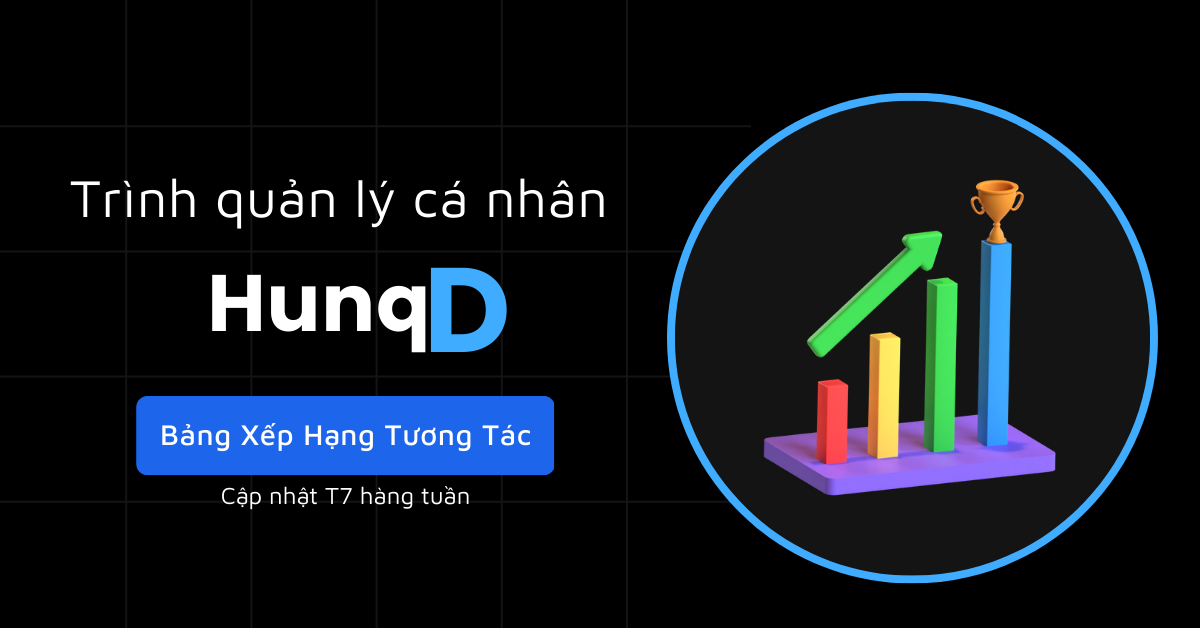
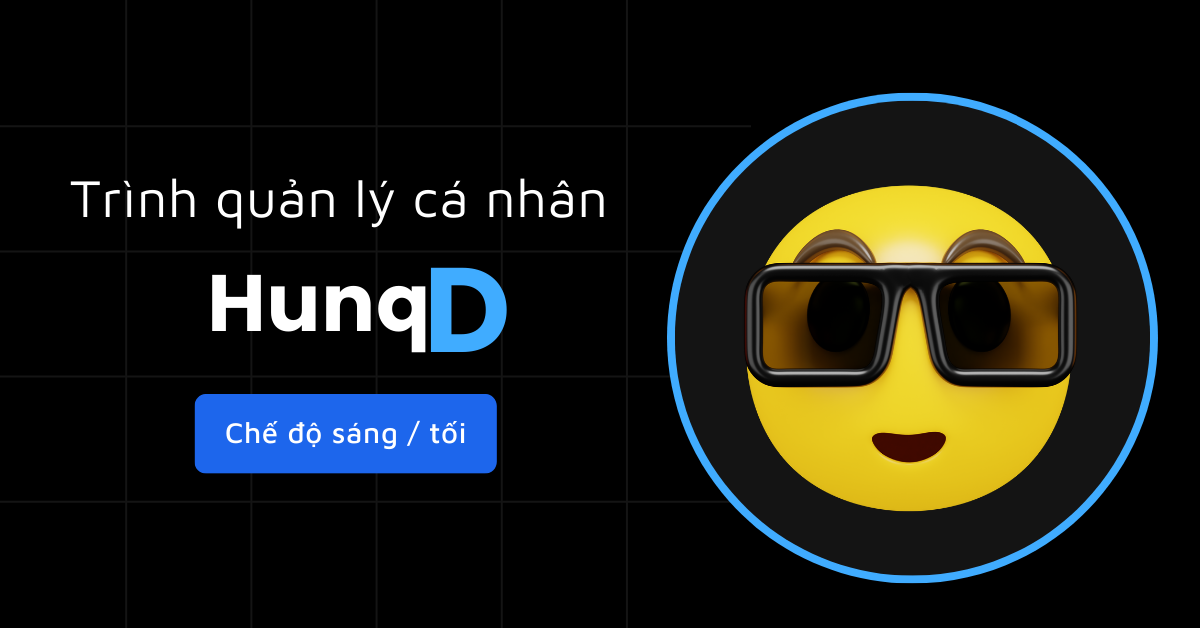
HunqD

Changed region(s): [[0.6167, 0.2723, 0.8942, 0.8169], [0.0925, 0.6051, 0.4625, 0.8169], [0.3083, 0.7866, 0.4008, 0.8169]]

diff --git a/index.html b/index.html
@@ -24,20 +24,20 @@
         <div>
             <h1>HunqD</h1>
             <p id="typing1"></p>
-            <a href="#Two" ><button>Xem Thêm</button></a>
+            <a href="#Two" ><button>Xem bảng xếp hạng</button></a>
         </div>
     </div>
 
     <div class="Page Two" id="Two">
         <div class="Banner"  onclick="Banner()">
-            <img id="Banner" src="./Data/IMG/Banner/1.png" alt="" srcset="">
+            <img id="Banner" src="./Data/IMG/Banner/3.png" alt="" srcset="">
         </div>
         <div class="ToolsBox">
             <div class="Function Active" onclick="openTab(event, 'Ranking')">
                 <img src="./Data/IMG/Func/growth-graph.png" alt="" srcset="">
             </div>
-            <div class="Function" onclick="openTab(event, 'AddFriends')">
-                <img src="./Data/IMG/Func/add-friend.png" alt="" srcset="">
+            <div class="Function" onclick="openTab(event, 'Mess')">
+                <img src="./Data/IMG/Func/Chat.png" alt="" srcset="">
             </div>
             <div class="Function" onclick="openTab(event, 'BlockList')">
                 <img src="./Data/IMG/Func/block.png" alt="" srcset="">
@@ -48,21 +48,27 @@
         </div>
         <div class="Tab">
             
-            <div class="tabcontent" id="Ranking" style="display: block;">
-
-             
+            <div class="tabcontent" style="display: block;">
+                <div id="Ranking"></div>
+                <p style="font-size: 12px;">Nếu như không hiện thị bảng xếp hạng hãy tải lại trang</p>
             </div>
-            <div class="tabcontent" id="AddFriends">
-                <h1>Kết bạn</h1>
-                <p>Tính năng đang hạn chế</p>
-                <h5>6:00.12/02/23 - Đã thêm 15 Bạn bè mới</h5>
+            <div class="tabcontent" id="Mess">
+                <h1>Xem thông kê tin nhắn</h1>
+                <p>Ở đây bạn có thể xem số lượng tin nhắn đã gửi cho Hùng ✨, Tính năng này sẽ được cập nhật sau nhưng không lâu đâu 😁</p>
             </div>
             <div class="tabcontent" id="BlockList">
                 <h1>Danh sách hạn chế</h1>
-                <input type="number" placeholder="Tính năng đang cập nhật">
+                <p>Hiện tại đang có <b>10 tài khoản</b>  bị hạn chế.</p>
+                <br>
+                <input type="text" id="getBlock" placeholder="Điền đầy đủ tên facebook để kiểm tra">
+                <button onclick="CheckBlock()">Kiểm Tra</button>
+                <h5 id="showBlock"></h5>
             </div>
         </div>
 
+    </div>
+    <div class="Info">
+        Trang được thiết kế bởi <a href="https://www.facebook.com/HunqD/">Đinh Mạnh Hùng</a>
     </div>
 
 </body>
@@ -72,6 +78,7 @@
 <script src="https://ajax.googleapis.com/ajax/libs/jquery/3.6.0/jquery.min.js"></script>
 <script src="./Data/JS/File.js"></script>
 <script src="./Data/JS/Rank.js"></script>
+<script src="./Data/JS/Blocks.js"></script>
 
 
 </html>

diff --git a/Data/JS/Rank.js b/Data/JS/Rank.js
@@ -1,52 +1,28 @@
-// var data = `{
-//     "Top": {
-//         "uid1": 100067058574264 ,
-//         "name1": "Phạm Nhi",
-//         "note1": "Kẻ huỷ diệt nút Love ❤",
-
-//         "uid2": 100067058574264 ,
-//         "name2": "Phạm Đạt",
-//         "note2": "Kẻ huỷ diệt nút Love ❤",
-
-//         "uid3": 0 ,
-//         "name3": "Tên ở đây",
-//         "note3": 5000 ,
-
-//         "uid4": 0 ,
-//         "name4": "Tên ở đây",
-//         "note4": 5000 ,
-
-//         "uid5": 0 ,
-//         "name5": "Tên ở đây",
-//         "note5": 5000 
-//     }
-
-// }`;
-
 var data = `{
     "Top": {
-        "uid1": 100089227729627 ,
-        "name1": "Phạm Đạt",
-        "note1": "Chiến Thần Tương Tác 😎",
+        "uid1": 100067058574264 ,
+        "name1": "Phạm Nhi",
+        "note1": "Bà hoàng thả tim ❤",
 
-        "uid2": 100067058574264 ,
-        "name2": "Phạm Nhi",
-        "note2": "Bà hoàng thả tim ❤",
+        "uid2": 100013708202721 ,
+        "name2": "Tô Phương Thuý",
+        "note2": "Chuyên gia Haha 🤣",
 
-        "uid3": 100025837573553 ,
-        "name3": "Văn Hậu",
-        "note3": "Trùm Like Dạo 👍",
+        "uid3": 100089227729627 ,
+        "name3": "Phạm Đạt",
+        "note3": "Kẻ bán nụ cười 😂" ,
 
-        "uid4": 100022538442079 ,
-        "name4": "Đồ Vân",
-        "note4": "Chuyên gia rep story ✨" ,
+        "uid4": 100075076793753 ,
+        "name4": "Chính Nguyễn",
+        "note4": "Fan cứng mới nổi" ,
 
-        "uid5": 100022625414871 ,
-        "name5": "Bùi Thanh Hiền",
-        "note5": "Sadboiz"
+        "uid5": 100088260422422 ,
+        "name5": "Trần Ngọc Ánh",
+        "note5": "Chuyên gia rep story ✨" 
     }
 
 }`;
+
 
 var TOP = JSON.parse(data);
 
@@ -125,7 +101,7 @@ Ranking.innerHTML =
     '                        <p>' + NO4 + '</p>' +
     '                    </div>' +
     '                    <div class="Rank">' +
-    '                        <img src="./Data/IMG/Rank/gold-medal.png" alt="" srcset="">' +
+    '                        <img src="./Data/IMG/Rank/FanCung.png" alt="" srcset="">' +
     '                    </div>' +
     '                </div>' +
     '                <div class="UserTop">' +
@@ -137,7 +113,7 @@ Ranking.innerHTML =
     '                        <p>' + NO5 + '</p>' +
     '                    </div>' +
     '                    <div class="Rank">' +
-    '                        <img src="./Data/IMG/Rank/gold-medal.png" alt="" srcset="">' +
+    '                        <img src="./Data/IMG/Rank/Chat.png" alt="" srcset="">' +
     '                    </div>' +
     '                </div>' +
     '   <h5>Cập nhật mỗi T7 hàng tuần</h5> '

diff --git a/Data/CSS/Style.css b/Data/CSS/Style.css
@@ -1,4 +1,19 @@
 :root {
+--Background: #6284fc;
+  --Linear-Gradient: linear-gradient(90deg, rgba(98, 132, 252, 1) 0%, rgba(244, 146, 240, 1) 100%);
+
+  --Color: #000;
+  --Menu: #fff;
+  --ColorMenu: #111;
+
+  --ColorCard: #000;
+  --Card: #fff;
+
+  --Shadow: #000;
+  --Link: greenyellow;
+}
+
+.darkmode {
   --Background: #111;
   --Linear-Gradient: linear-gradient(90deg, rgba(0, 97, 255, 1) 0%, rgba(96, 239, 255, 1) 100%);
 
@@ -10,20 +25,7 @@
   --Card: #000;
 
   --Shadow: #eee;
-}
-
-.darkmode {
-  --Background: #6284fc;
-  --Linear-Gradient: linear-gradient(90deg, rgba(98, 132, 252, 1) 0%, rgba(244, 146, 240, 1) 100%);
-
-  --Color: #000;
-  --Menu: #fff;
-  --ColorMenu: #111;
-
-  --ColorCard: #000;
-  --Card: #fff;
-
-  --Shadow: #000;
+  --Link: #008cff;
 }
 
 * {
@@ -87,11 +89,11 @@ body {
   font-weight: bold;
   margin: 10px 0;
   color: var(--Color);
-  background-color: #6284fc;
+  background-color: var(--Link);
   height: 50px;
-  width: 200px;
   border-radius: 20px;
   border: 2px solid var(--Color);
+  padding: 0 15px ;
 }
 
 .Two {
@@ -115,7 +117,7 @@ body {
 .Two .ToolsBox {
   width: 100%;
   display: grid;
-  grid-template-columns: auto auto auto auto;
+  grid-template-columns: auto auto auto auto ;
   gap: 10px;
   margin: auto;
 }
@@ -146,6 +148,7 @@ body {
 
 .Tab .tabcontent {
   display: none;
+  text-align: center;
 }
 
 #AddFriends ol{
@@ -154,17 +157,17 @@ body {
 #Ranking .UserTop {
   display: grid;
   grid-template-columns: 60px auto 60px;
+  gap: 2px;
   background-color: var(--Card);
   margin: 10px 0;
   padding: 10px;
   border-radius: 20px;
   text-align: center;
 }
-#Ranking .UserTop:nth-child(2) {
-  grid-template-columns: auto ;
-}
 
 #Ranking .UserTop:nth-child(2) {
+  grid-template-columns: auto ;
+  border: 3px solid var(--Card);
   background: linear-gradient(-45deg, #ee7752, #e73c7e, #23a6d5, #23d5ab);
 	background-size: 400% 400%;
 	animation: gradient 15s ease infinite;
@@ -225,10 +228,36 @@ body {
 }
 
 #BlockList input {
+  color: var(--Color);
   font-size: 18px;
   padding: 0 5px;
   width: 100%;
-  height: 30px;
-  border: 2px solid #000;
+  height: 40px;
   border-radius: 10px;
+  border: 2px solid var(--Color);
+  background-color: var(--Card);
+}
+#BlockList button {
+  color: var(--Card);
+  font-size: 20px;
+  height: 40px;
+  width: 100%;
+  margin: 10px 0;
+  border-radius: 10px;
+  border: 2px solid var(--Card);
+  background-color: var(--Color);
+}
+#BlockList {
+  text-align: center;
+}
+.Info {
+  font-size: 12px;
+  text-align: center;
+  margin: 10px 0 20px 0;
+}
+.Info a {
+  font-weight: bold;
+  color: var(--Link);
+  font-size: 15px;
+  text-decoration: none;
 }

diff --git a/Data/JS/File.js b/Data/JS/File.js
@@ -1,7 +1,6 @@
 window.onload = function()
 {
   typeWriter();
-  Banner();
 };
 
 var Welcome = document.getElementById('Welcome');
@@ -16,17 +15,13 @@ var imgBanner = document.getElementById('Banner');
 
 var BannerX = 0
 function Banner() {
-  if (BannerX <= 2) {
+  if (BannerX < 3) {
     BannerX++;
     imgBanner.src = './Data/IMG/Banner/'+ BannerX +'.png'
-    setTimeout(Banner,5000);
-
   } else {
     BannerX = 0;
-    setTimeout(Banner,5000);
     imgBanner.src = './Data/IMG/Banner/'+ BannerX +'.png'
   }
-  console.log(BannerX);
   
 }
 
@@ -40,13 +35,14 @@ const enableDarkMode = () => {
     document.body.classList.add('darkmode');
     localStorage.setItem('darkMode', 'enabled');
     document.getElementById("fDarkMode").checked = true;
-    iconDarkMode.src = './Data/IMG/Func/eye-glasses.png';
+    iconDarkMode.src = './Data/IMG/Func/moon.png';
 }
 const disableDarkMode = () => {
     document.body.classList.remove('darkmode');
     localStorage.setItem('darkMode', null);
 	document.getElementById("fDarkMode").checked = false;
-  iconDarkMode.src = './Data/IMG/Func/moon.png';
+
+  iconDarkMode.src = './Data/IMG/Func/eye-glasses.png';
 }
 if (darkMode === 'enabled') {
     enableDarkMode();

diff --git a/Data/JS/Blocks.js b/Data/JS/Blocks.js
@@ -1,0 +1,15 @@
+var showBlock = document.getElementById("showBlock");
+function CheckBlock() {
+    var Who = document.getElementById("getBlock").value;
+    
+    if (Who == 'BLOCK') {
+        showBlock.innerText = 'Tài khoản "'+Who+'" đã bị hạn chế hoặc bị chặn.'
+    } else {
+        if (Who == 'Hoàng Nguyễn Thy Thy') {
+            showBlock.innerText = 'NYC Thy của tui sợ bị hạn chế hay chặn à, không có sao đâu yên tâm he 😉.'
+        } else {
+            showBlock.innerText ='Bạn không nằm trong danh sách bị chặn hay hạn chế.'
+        }
+    }
+    
+}
